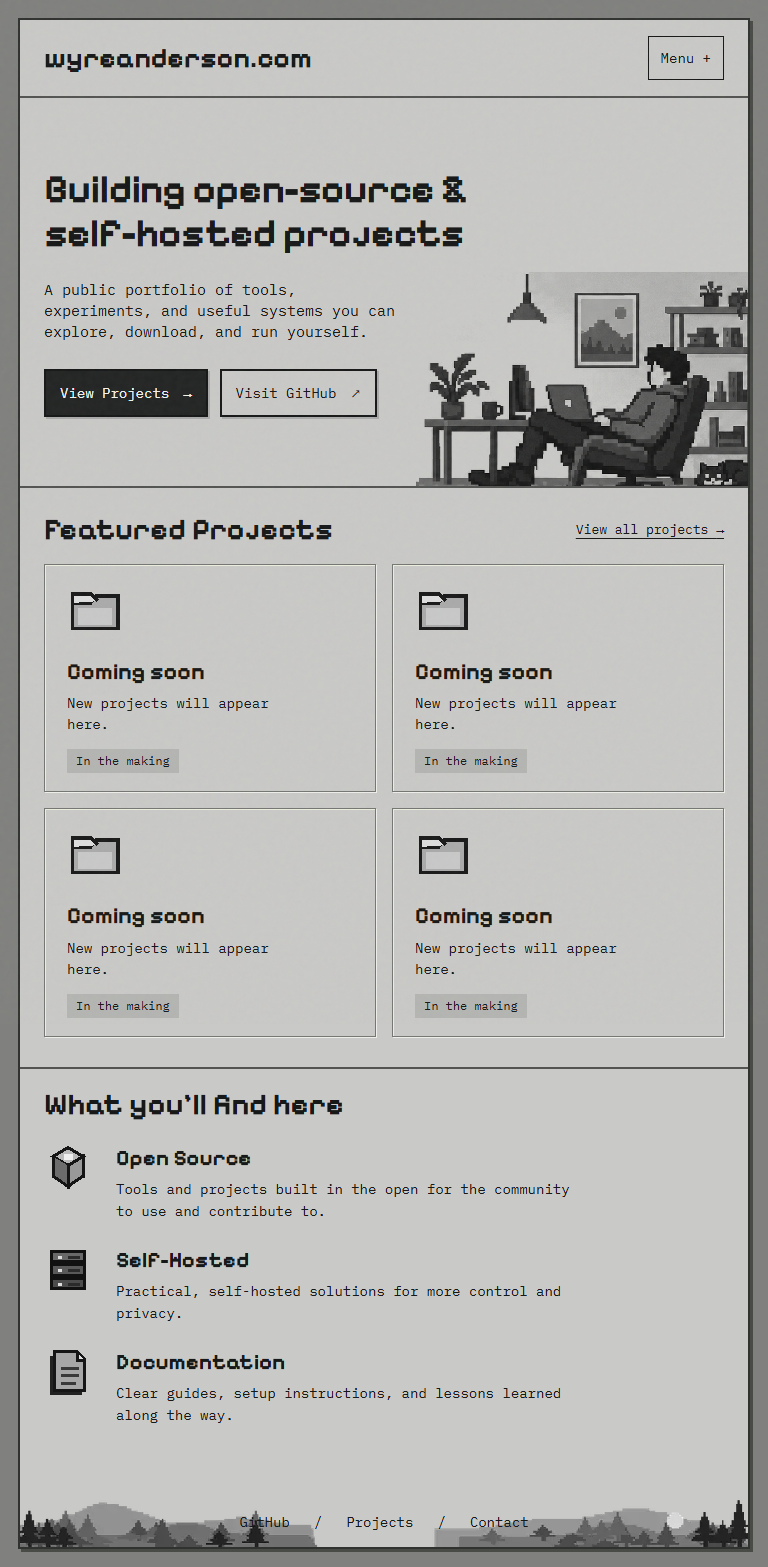
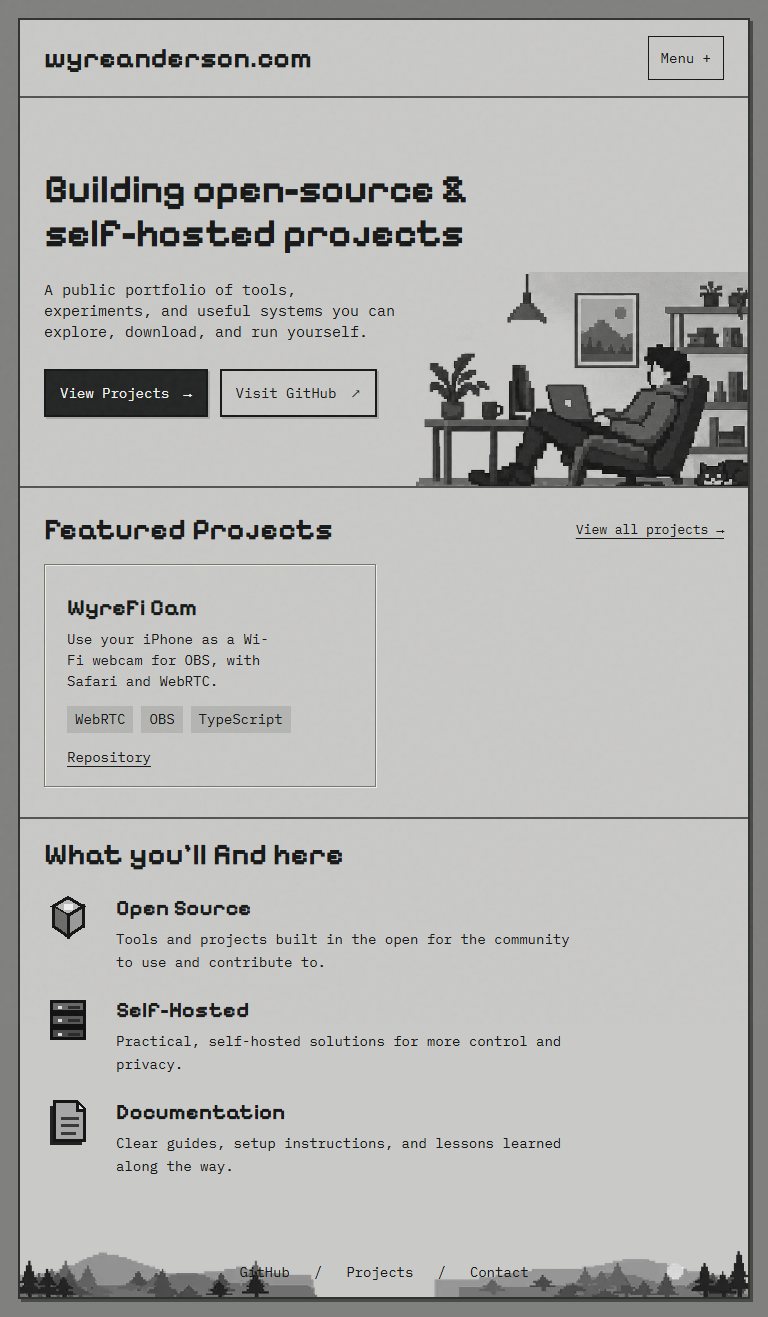
feat: add WyreFi Cam as first featured project

diff --git a/tests/site.spec.ts b/tests/site.spec.ts
@@ -3,7 +3,8 @@ import AxeBuilder from "@axe-core/playwright";
 import { projects } from "../src/content/projects";
 import { featuredProjects, safeUrl } from "../src/lib/projects";
 test("content and URL safety", () => {
-  expect(projects).toEqual([]);
+  expect(featuredProjects(projects)).toHaveLength(1);
+  expect(featuredProjects([])).toEqual([]);
   for (const url of [
     "",
     "javascript:alert(1)",
@@ -34,7 +35,7 @@ for (const [name, width, height] of [
   ["mobile", 390, 844],
   ["small-mobile", 360, 800],
 ] as const) {
-  test(`${name}: layout, empty state, links and accessibility`, async ({
+  test(`${name}: layout, featured project, links and accessibility`, async ({
     page,
   }) => {
     await page.setViewportSize({ width, height });
@@ -48,7 +49,13 @@ for (const [name, width, height] of [
     await expect(page.getByRole("heading", { level: 1 })).toHaveText(
       "Building open-source & self-hosted projects",
     );
-    await expect(page.locator(".placeholder")).toHaveCount(4);
+    await expect(page.locator(".placeholder")).toHaveCount(0);
+    await expect(page.locator(".project-card")).toHaveCount(1);
+    await expect(page.locator(".project-card h3")).toHaveText("WyreFi Cam");
+    await expect(page.locator(".project-card a")).toHaveAttribute(
+      "href",
+      "https://github.com/Wyreanderson/WyreFi-Cam",
+    );
     await expect(page.locator('a[href="#"]')).toHaveCount(0);
     await expect(
       page.locator('.hero-actions a[href="https://github.com/Wyreanderson"]'),

diff --git a/src/content/projects.ts b/src/content/projects.ts
@@ -17,4 +17,17 @@ export type Project = {
 // Add verified, real projects here. Set status to published and featured to true
 // to show a card on the homepage. Optional links must be absolute HTTPS URLs.
 // Keep drafts private: this file is committed publicly, even when a card is hidden.
-export const projects: Project[] = [];
+export const projects: Project[] = [
+  {
+    id: "wyrefi-cam",
+    slug: "wyrefi-cam",
+    title: "WyreFi Cam",
+    shortDescription:
+      "Use your iPhone as a Wi-Fi webcam for OBS, with Safari and WebRTC.",
+    tags: ["WebRTC", "OBS", "TypeScript"],
+    categories: ["open-source", "self-hosted"],
+    status: "published",
+    featured: true,
+    repoUrl: "https://github.com/Wyreanderson/WyreFi-Cam",
+  },
+];

diff --git a/docs/QA.md b/docs/QA.md
@@ -48,3 +48,9 @@ Comandos adicionais executados: `pnpm view next version`, `pnpm view react versi
 ## Atualização do GitHub
 
 Perfil confirmado pelo proprietário: https://github.com/Wyreanderson. Links ativados no cabeçalho, hero e rodapé; aviso Coming soon do GitHub removido automaticamente. Suite de 9 testes repetida com sucesso e TypeScript aprovado. Capturas atualizadas. Apenas o contacto permanece nulo; referências anteriores a GitHub pendente registam o estado inicial da V1.
+
+## Primeiro projeto real — WyreFi Cam
+
+Autorizado pelo proprietário através do link https://github.com/Wyreanderson/WyreFi-Cam. Metadados e README públicos consultados: repositório público, licença MIT, TypeScript, webcam iPhone via Safari/WebRTC para OBS, self-hosted. Nenhum código desse repositório foi executado ou alterado.
+
+Adicionado como destaque publicado nas categorias open-source e self-hosted, com ligação apenas ao repositório. Nenhuma demo ou download foi presumido. Os quatro placeholders desaparecem conforme a regra original; há agora um cartão real. O estado vazio continua suportado e o filtro vazio é testado. Lint, TypeScript, 9 testes e build passaram; capturas atualizadas nas quatro larguras. Esta alteração substitui o requisito inicial de conteúdo vazio por autorização explícita do proprietário.

diff --git a/AGENTS.md b/AGENTS.md
@@ -4,7 +4,7 @@ Leia primeiro `CODEX_SUPERPROMPT.md`, `IMPLEMENTATION_PLAN.md` e `docs/approved-
 
 - Trabalhe **somente neste repositório**. Não alterar pastas-irmãs e outras iniciativas do utilizador.
 - Referência visual é uma meta de UI, não arquivo a ser renderizado como screenshot.
-- V1 sem projetos reais: `src/content/projects.ts` vazio; quatro placeholders honestos “Coming soon”.
+- Projetos reais apenas quando fornecidos ou aprovados pelo proprietário. WyreFi Cam autorizado; quatro placeholders “Coming soon” apenas quando não há destaques publicados.
 - Idioma do site inglês; relatórios para o utilizador em português.
 - Não criar links fictícios, páginas falsas, mock de downloads, nem inventar URLs, email ou GitHub handle.
 - Não fazer deploy, alteração DNS, publicar ou dar push remoto sem aprovação explícita.
@@ -21,3 +21,4 @@ This version has breaking changes — APIs, conventions, and file structure may 
 This block is written and re-added by `next dev` — verify at `node_modules/next/dist/server/lib/generate-agent-files.js`. Removing it from a diff only re-creates the uncommitted change; committing it with your work keeps the tree clean.
 
 <!-- END:nextjs-agent-rules -->
+

diff --git a/README.md b/README.md
@@ -1,6 +1,6 @@
 # wyreanderson.com
 
-Portfólio monocromático em Next.js App Router e TypeScript. V1 sem projetos públicos, backend ou tracking.
+Portfólio monocromático em Next.js App Router e TypeScript. Primeiro projeto público: WyreFi Cam. Sem backend ou tracking.
 
 ## Desenvolvimento
 
